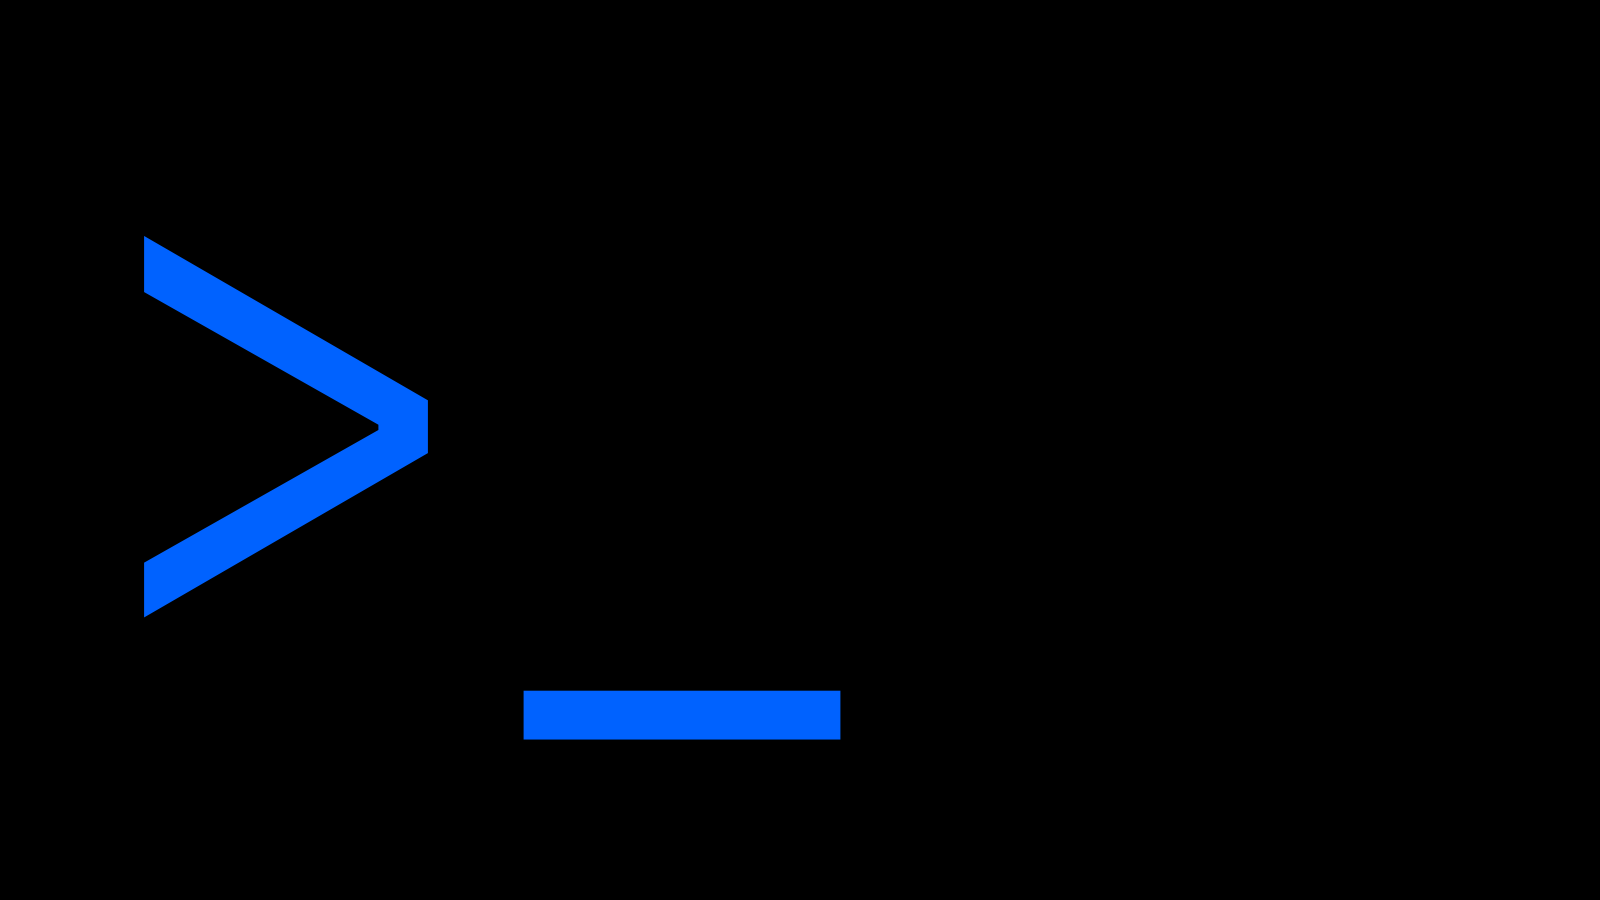
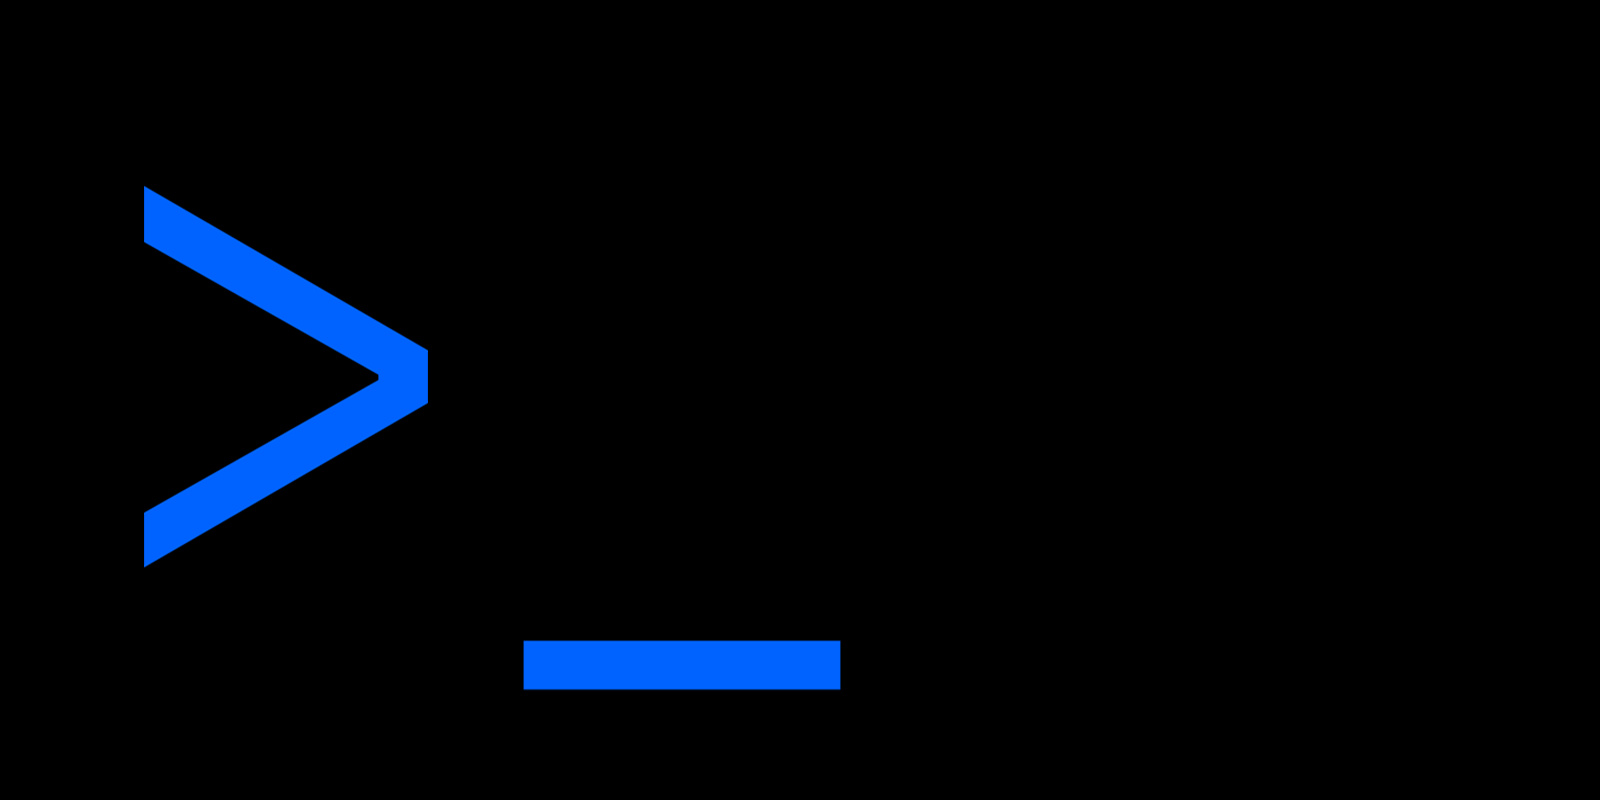
feat: fix tablet/mobile image size

diff --git a/src/styles/_homepage.scss b/src/styles/_homepage.scss
@@ -72,3 +72,11 @@
 .homepage-feature {
   margin-top: $spacing-09;
 }
+
+.homepage-feature .bx--feature-card__img {
+  padding-bottom: 50%;
+
+  @include carbon--breakpoint('md') {
+    padding-bottom: 0;
+  }
+}
